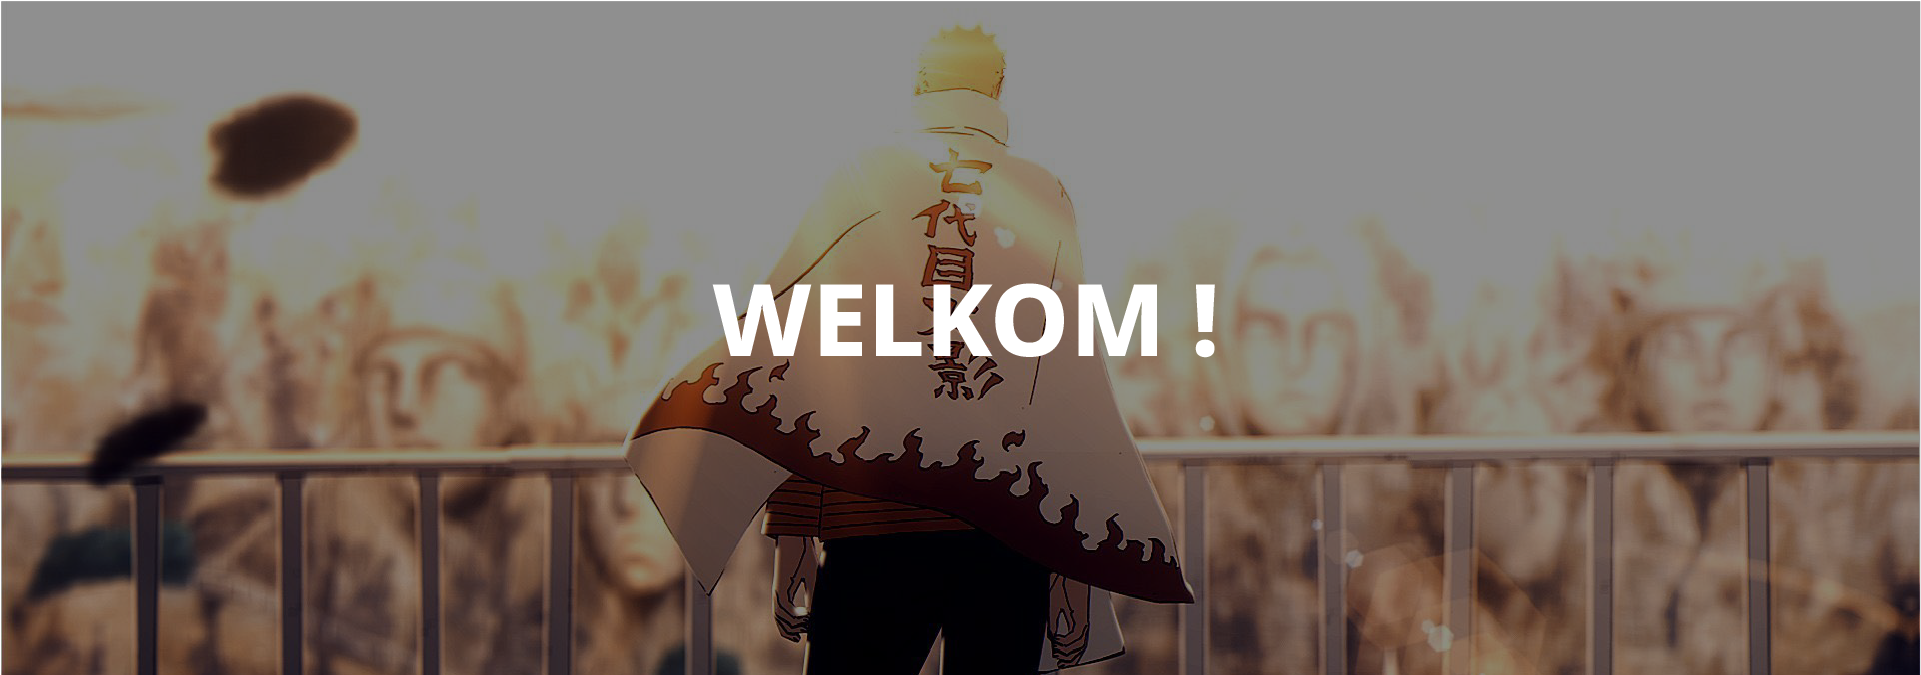
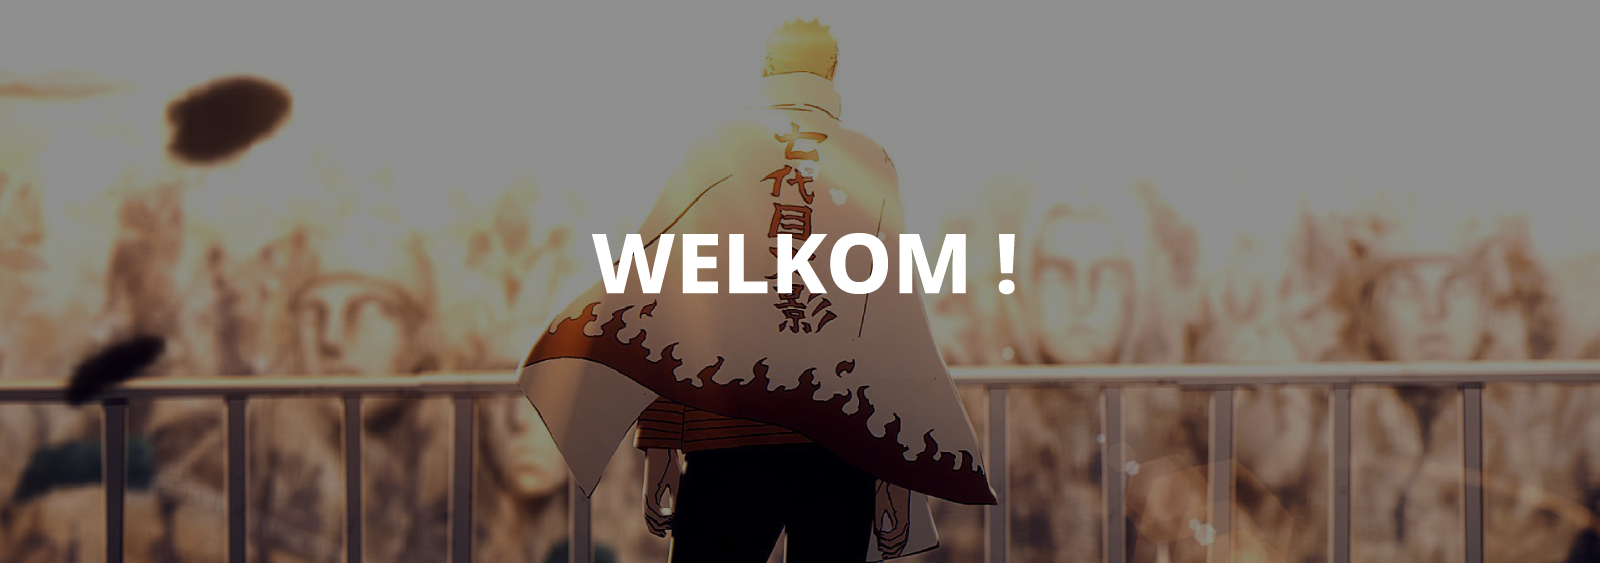
Image welkom crop + in de home page geplaatst

diff --git a/index.html b/index.html
@@ -19,6 +19,7 @@
 				</nav>
 			</header>
 		</div>
+		<img src="images/Naruto_Welkom.png" alt="" />
 
 		<div class="wrapper">
 			<div id="grid">
@@ -37,7 +38,19 @@
 			</div>
 
 			<div class="welkom">
-				<img src="images/Naruto_Welkom.png" alt="" />
+				<div class="welkom-text">
+					<h1>Over mij</h1>
+					<p>
+						Ik ben Naruto Uzumaki, ik ben 32 jaar oud en ik ben geboren in het
+						dorp Konoha. Ik heb altijd gedroomd om Hokage te worden en mensen te
+						beschermen. Door mijn vastberadenheid en motivatie heb ik mezelf
+						ontwikkeld van een jonge genin tot een krachtige ninja. Mijn leven
+						draait om hard werken, vriendschap en trouw blijven aan mijn
+						idealen.
+					</p>
+
+					<img src="images/Naruto_HomePage.png" alt="" />
+				</div>
 			</div>
 		</div>
 	</body>

diff --git a/style.css b/style.css
@@ -8,7 +8,7 @@ body {
 }
 
 .wrapper {
-	width: 100%;
+	width: 95%;
 	margin: 0 auto;
 	display: grid;
 	grid-template-columns: repeat(12, 1fr);
@@ -74,6 +74,10 @@ header nav ul li a {
 	text-decoration: none;
 }
 
-.welkom img {
-	width: 1200%;
+.welkom {
+	grid-column: 1/13;
+}
+
+img {
+	width: 100%;
 }
